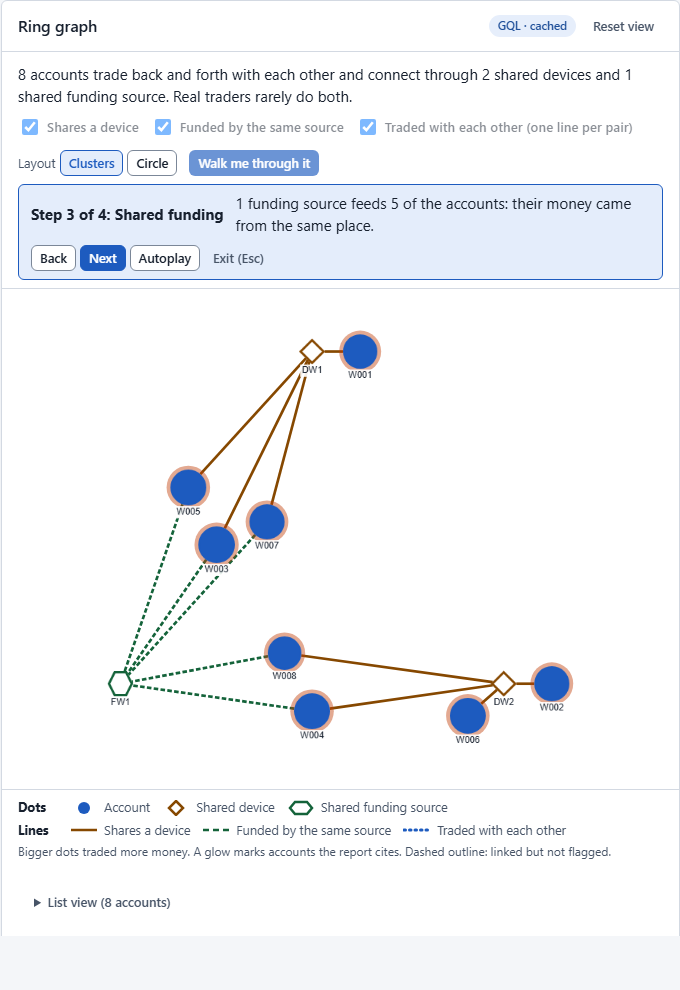
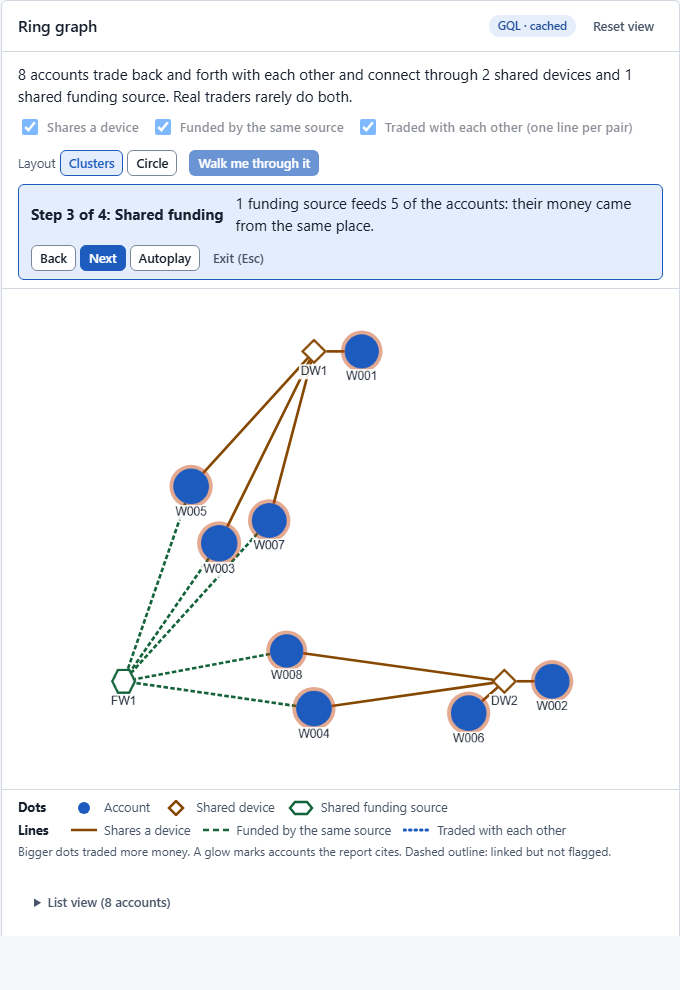
docs: status for the Overview, graph and evaluation-case changes

Changed region(s): [[0.1544, 0.3333, 0.8338, 0.7576]]

diff --git a/services/app/static/js/graph.js b/services/app/static/js/graph.js
@@ -108,7 +108,11 @@ export function createGraph(container, graph, { onSelectNode, cited = [] } = {})
   inst.on('mouseout', 'edge', () => { tip.hidden = true; });
   // a small group has room for every name; a big one labels accounts when zoomed in or hovered
   const small = model.accounts.length <= 12;
-  const relabel = () => inst.nodes('[type = "Account"]').toggleClass('lbl', small || inst.zoom() >= LABEL_ZOOM);
+  const relabel = () => {
+    inst.nodes('[type = "Account"]').toggleClass('lbl', small || inst.zoom() >= LABEL_ZOOM);
+    // keep labels at least 11 px on screen whatever the zoom
+    inst.nodes().style('font-size', Math.min(30, Math.max(12, 12 / inst.zoom())));
+  };
   inst.on('zoom', relabel);
   relabel();
 

diff --git a/docs/STATUS.md b/docs/STATUS.md
@@ -222,7 +222,7 @@ for the operator) and deploys. IAM: only what `--allow-unauthenticated` adds for
   stale lanes for up to the 30 s cache TTL, and the live ceiling would multiply by the instance count.
   One instance (1 vCPU, concurrency 40) handled 300 requests at concurrency 10 with no error
   (median 0.8 s from a laptop). The cost is no scale-out: more than about 40 simultaneous requests queue.
-- **Screens**: command centre (KPIs, queue, replay control disabled: streaming ships in P6), case
+- **Screens**: Overview (new first tab, `#/overview`, see "Overview, readable graph" below), command centre (detector-alert KPIs and queue, a "Replay a recorded investigation" control that animates a stored timeline in the browser), case
   (ring graph, timeline, draft report with evidence chips, Approve / Reject / Escalate with a required
   reason, Investigate live, JSON export, print view), lanes, benchmark (numbers parsed from
   `docs/benchmark.md` and `docs/agent-evals.md` by `scripts/build_ui_data.py`, caveats and limits shown),
@@ -293,6 +293,35 @@ Check with `gcloud run services describe sentinel-app` that `minScale` is gone o
   deployed revision before the change, so the 20-event report could not be reproduced; the ceiling is
   now enforced in the endpoint and covered by a test.
 - Injected review cases are stored: see the next section.
+
+## Overview, readable graph, evaluation cases (branch `feat/web-workbench`, 2026-10-17)
+
+- **Overview** (`#/overview`, first tab; an empty hash is replaced by it, `#/` is still the Command
+  centre). Static data in `services/app/static/data/overview.json`, built by
+  `python scripts/build_overview_data.py --base <service url> [--refresh-bq]` from `benchmark.json`,
+  the service's `/summary`, `/queue` and stored reports, `docs/results/cache_latency.json`, and **one**
+  capped BigQuery query (USD traded by flagged accounts per scenario, plus trade and account counts;
+  estimate printed first: 543,320 bytes, cap 50 MB; result cached in `docs/results/overview_bq.json`).
+  The page makes no BigQuery or Gemini call (`scripts/overview_screens.py` checks the requests).
+  Pre-computed from recorded runs; synthetic data; no savings, ROI or hours-saved figures.
+  Numbers are tied to their sources in `tests/unit/test_overview_data.py` and `ui_smoke`.
+- **Case graph**: plain-language caption, legend, edge toggles, Clusters/Circle layouts (deterministic),
+  node size by volume, glow on accounts the report cites, hubs always labelled, account labels when
+  zoomed or hovered (always for groups of 12 or fewer), side panel with plain facts, "Why this was
+  flagged" bars, "Walk me through it" (4 steps, Autoplay, Esc), collapsible list view. Screenshots
+  `docs/img/ui_graph_*.png` (`scripts/graph_screens.py`). Known limit: the graph payload has no per-pair
+  fill counts, so for rings over 40 edges the merged line per pair is thick when the pair traded both
+  ways and thin when one way; the hover says which.
+- **Evaluation cases**: injected cases are hidden by default behind a toggle on the Command centre and
+  Lanes and shown in a separate section; `/summary` now reports `detector_alerts` and
+  `evaluation_cases` apart (the old totals are kept).
+- **Idempotent GETs** retry once after 400 ms on a network error or 5xx
+  (`tests/unit/test_ui_api_retry.py`). Detector scores show two decimals (43.01 vs 42.99).
+- Local checks before the deploy: `ui_smoke --write` 73/73 (override moved EV_DG1 to escalated in the
+  test view only; default lanes stayed escalated 7, agent-cleared 1, needs-analyst 0).
+- **Not done in this release**: the executable evidence standard (signal families) and the repeated
+  3x evaluation. Agent decisions on injected decoys were unstable across runs; real alerts come from the
+  detector, which flagged none of the decoys.
 
 ## Injected review cases (stored 2026-10-17, source `eval_injected`)
 

diff --git a/docs/ROADMAP.md b/docs/ROADMAP.md
@@ -49,7 +49,7 @@ Schedule: P1 and P2 Oct 14, P3 and P4 Oct 15, P5 and P6 Oct 16, P7 Oct 17. Submi
     timeline, case report with evidence links, approve/reject written to audit.
   - Publicly reachable.
   - Status 2026-10-17: deployed as `sentinel-app` (URL, revision and settings in `docs/STATUS.md`);
-    `scripts/e2e_smoke.py` passes against the live URL. The replay control is disabled until P6.
+    `scripts/e2e_smoke.py` passes against the live URL. The replay control is now "Replay a recorded investigation" (client-side playback of a stored timeline); real streaming is P6.
 
 - [ ] **P6 streaming-governance** (Oct 16)
   - Replay script publishing synthetic trades to Pub/Sub.
